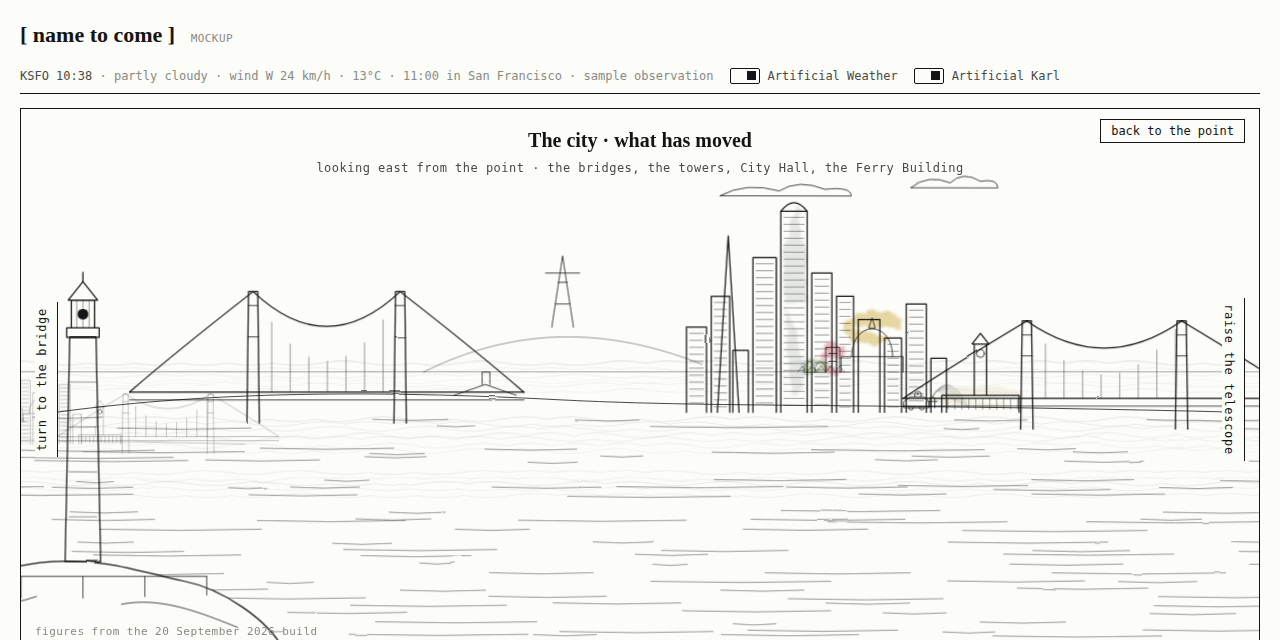
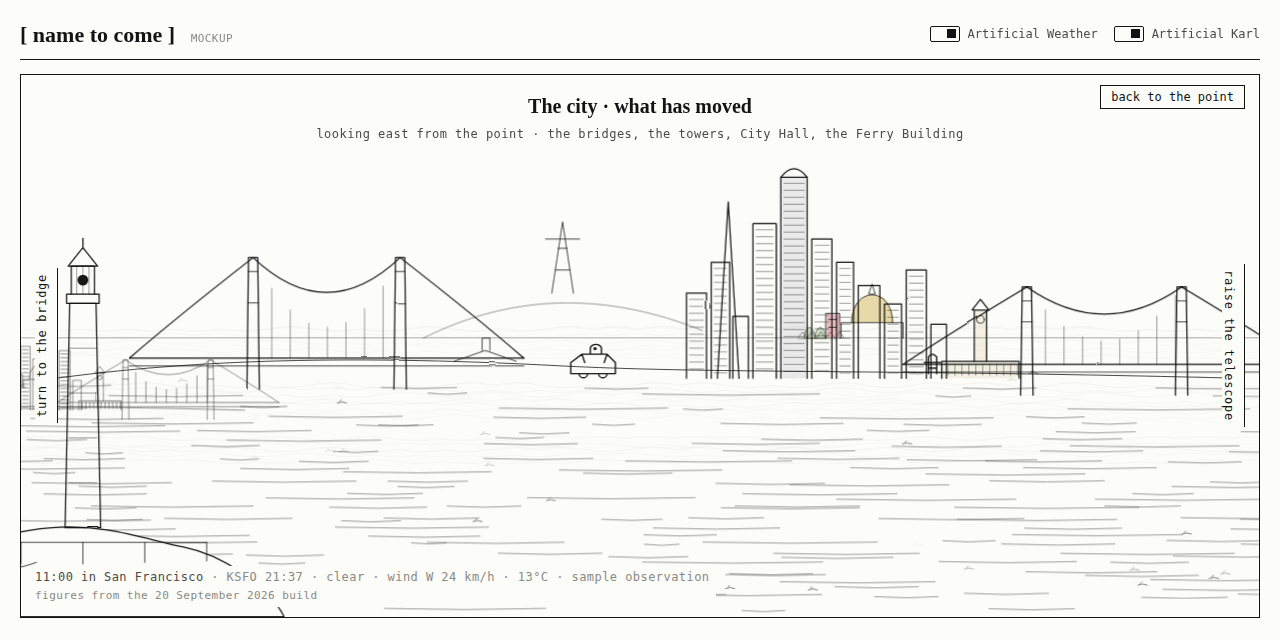
Mockup sixth pass: water that travels on three layers, colour held inside the outlines, the robotaxi as each view's first event

diff --git a/docs/mockup/index.html b/docs/mockup/index.html
@@ -4,15 +4,15 @@
 :root{
   --paper:#FCFCF9; --ink:#141414; --ink-2:#4A4A46; --ink-3:#8A8A84; --hair:#C9C9C2; --wash:#F1F1EC;
   --orange:#C8472B; --gold:#C9A227; --cream:#E9DFC4; --sandstone:#C98F5A; --glass:#5E6B75; --rose:#D4566E; --green:#7FA36B; --sky:#9FB7C9;
-  --wash-a:.42;
+  --wash-a:.38; --blend:multiply;
   --display:"Fraunces",Georgia,"Times New Roman",serif;
   --body:"Libre Franklin","Helvetica Neue",Arial,sans-serif;
   --mono:"IBM Plex Mono",Menlo,Consolas,monospace;
 }
 @media (prefers-color-scheme: dark){
-  :root:not([data-theme="light"]){ --paper:#101010; --ink:#ECECE6; --ink-2:#B9B9B2; --ink-3:#7E7E78; --hair:#3A3A36; --wash:#181816; --cream:#B9AE8E; --wash-a:.5; }
+  :root:not([data-theme="light"]){ --paper:#101010; --ink:#ECECE6; --ink-2:#B9B9B2; --ink-3:#7E7E78; --hair:#3A3A36; --wash:#181816; --cream:#B9AE8E; --wash-a:.55; --blend:screen; }
 }
-:root[data-theme="dark"]{ --paper:#101010; --ink:#ECECE6; --ink-2:#B9B9B2; --ink-3:#7E7E78; --hair:#3A3A36; --wash:#181816; --cream:#B9AE8E; --wash-a:.5; }
+:root[data-theme="dark"]{ --paper:#101010; --ink:#ECECE6; --ink-2:#B9B9B2; --ink-3:#7E7E78; --hair:#3A3A36; --wash:#181816; --cream:#B9AE8E; --wash-a:.55; --blend:screen; }
 
 *{box-sizing:border-box}
 body{margin:0;background:var(--paper);color:var(--ink);font-family:var(--body);font-size:15px;line-height:1.5;padding-inline:16px;padding-block:0 40px}
@@ -39,15 +39,20 @@ header.top{display:flex;align-items:baseline;justify-content:space-between;gap:1
 .scene text{font-family:var(--mono);font-size:12px;fill:var(--ink-2);stroke:none;letter-spacing:.04em}
 .scene .cap{font-family:var(--display);font-size:20px;fill:var(--ink);letter-spacing:0}
 .scene .cap.strong{font-weight:600}
-.wc{stroke:none;opacity:var(--wash-a);filter:url(#wc)}
+.wc{stroke:none;opacity:var(--wash-a);filter:url(#wc);mix-blend-mode:var(--blend,multiply)}
 .pan{transition:transform 1.4s cubic-bezier(.6,0,.2,1)}
 .fg{transition:transform 1.4s cubic-bezier(.6,0,.2,1)}
 .fog{transition:opacity .6s}
 .stage[data-aw="off"] .sky .cloud,.stage[data-aw="off"] .sky .rain,.stage[data-aw="off"] .sky .hair,.stage[data-aw="off"] .dawn,.stage[data-aw="off"] .sunwash{opacity:0 !important}
 .stage[data-ak="off"] .fog{opacity:0 !important}
-.water{animation:sway 7s ease-in-out infinite alternate}
-.water.b{animation-duration:9s;animation-delay:-4s}
-@keyframes sway{from{transform:translateX(-5px)}to{transform:translateX(5px)}}
+.water{animation:swell 6s ease-in-out infinite alternate}
+.water.b{animation-name:swellb;animation-duration:8.5s;animation-delay:-3s}
+.water.c{animation-name:swellc;animation-duration:11s;animation-delay:-6s}
+@keyframes swell{from{transform:translate(-14px,-2px)}to{transform:translate(14px,3px)}}
+@keyframes swellb{from{transform:translate(12px,2px)}to{transform:translate(-12px,-3px)}}
+@keyframes swellc{from{transform:translate(-8px,3px)}to{transform:translate(8px,-2px)}}
+.crest{animation:crest 4s ease-in-out infinite;opacity:0}
+@keyframes crest{0%,100%{opacity:0}40%,60%{opacity:.9}}
 .life{pointer-events:none}
 .gust .fogline{animation-duration:calc(var(--drift,60s)/3) !important}
 .gust .cloud{animation-duration:calc(var(--cdrift,240s)/4) !important}
@@ -72,7 +77,8 @@ header.top{display:flex;align-items:baseline;justify-content:space-between;gap:1
 .hot{cursor:pointer}
 .hot,.hot *{outline:none}
 .hot rect{fill:transparent;stroke:none}
-.hot:hover .cap,.hot:focus-visible .cap{text-decoration:underline;text-underline-offset:5px}
+.hot .cap{text-decoration:underline dotted;text-decoration-color:var(--ink-3);text-underline-offset:6px}
+.hot:hover .cap,.hot:focus-visible .cap{text-decoration:underline solid;text-decoration-color:var(--ink)}
 .detail{opacity:0;transition:opacity .25s}
 .hot:hover .detail,.hot:focus-visible .detail{opacity:1}
 .viewer{transition:transform 1s cubic-bezier(.5,0,.2,1)}
@@ -134,7 +140,7 @@ header.top{display:flex;align-items:baseline;justify-content:space-between;gap:1
 .src b{color:var(--ink);font-weight:500}
 .coin .close{margin-top:12px;font-family:var(--mono);font-size:12px;background:transparent;border:1px solid var(--ink);color:var(--ink);padding:5px 12px;cursor:pointer}
 
-@media (prefers-reduced-motion: reduce){.fogline,.cloud,.rain,.water,.crownblock{animation:none}.pan,.fg,.viewer,.beam,.mask-in{transition:none}}
+@media (prefers-reduced-motion: reduce){.fogline,.cloud,.rain,.water,.crest,.crownblock{animation:none}.pan,.fg,.viewer,.beam,.mask-in{transition:none}}
 @media (max-width:820px){
   .reading{grid-template-columns:1fr}.series{grid-template-columns:1fr}.cad{white-space:normal}
   .stage svg{aspect-ratio:16/9}.scene text{font-size:16px}.scene .cap{font-size:26px}.vig{grid-template-columns:1fr}
@@ -157,10 +163,10 @@ header.top{display:flex;align-items:baseline;justify-content:space-between;gap:1
           <feTurbulence type="fractalNoise" baseFrequency="0.018" numOctaves="2" seed="7" result="n"/>
           <feDisplacementMap in="SourceGraphic" in2="n" scale="2.2" xChannelSelector="R" yChannelSelector="G"/>
         </filter>
-        <filter id="wc" x="-20%" y="-20%" width="140%" height="140%">
-          <feTurbulence type="fractalNoise" baseFrequency="0.05" numOctaves="3" seed="3" result="n"/>
-          <feDisplacementMap in="SourceGraphic" in2="n" scale="14" xChannelSelector="R" yChannelSelector="G" result="d"/>
-          <feGaussianBlur in="d" stdDeviation="1.2"/>
+        <filter id="wc" x="-10%" y="-10%" width="120%" height="120%">
+          <feTurbulence type="fractalNoise" baseFrequency="0.06" numOctaves="2" seed="3" result="n"/>
+          <feDisplacementMap in="SourceGraphic" in2="n" scale="3" xChannelSelector="R" yChannelSelector="G" result="d"/>
+          <feGaussianBlur in="d" stdDeviation="0.7"/>
         </filter>
         <filter id="glow" x="-100%" y="-100%" width="300%" height="300%"><feGaussianBlur stdDeviation="6"/></filter>
         <mask id="fogmask"><rect x="0" y="0" width="4800" height="700" fill="white"/><polygon id="cone" points="0,0" fill="black"/></mask>
@@ -168,20 +174,20 @@ header.top{display:flex;align-items:baseline;justify-content:space-between;gap:1
       </defs>
 
       <!-- ================= the panorama: bridge | point | city ================= -->
-      <g id="pan" class="pan scene" filter="url(#wob)" style="transform:translateX(-1600px)">
+      <g id="pan" class="pan scene" style="transform:translateX(-1600px)">
         <g id="sky" class="sky thin"></g>
         <g id="washes"></g>
-        <g id="far"></g>
+        <g id="far" filter="url(#wob)"></g>
         <g id="lights"></g>
         <g id="water" class="hair"></g>
         <g id="fog" class="fog" mask="url(#fogmask)"></g>
       </g>
       <!-- foreground: the point, the lighthouse, the railing, the viewer at rest -->
-      <g id="fg" class="fg scene" filter="url(#wob)">
+      <g id="fg" class="fg scene">
         <path d="M560 700 C 600 620, 690 590, 760 585 C 830 580, 880 600, 930 610 C 980 620, 1040 660, 1060 700 Z" style="fill:var(--paper)"/>
         <path d="M600 660 C 650 640, 700 645, 740 630 M850 640 C 900 630, 950 650, 1000 670" class="thin"/>
         <g class="beam" id="beam" style="--bx:800px;--by:300px"><path d="M800 300 L 1590 150 M800 300 L 1590 450" class="hair" stroke-dasharray="6 6"/></g>
-        <g id="lh"></g>
+        <g id="lh" filter="url(#wob)"></g>
         <path d="M640 604 L 960 604 M640 604 L 640 630 M720 604 L 720 632 M800 604 L 800 632 M880 604 L 880 630 M960 604 L 960 628" class="thin"/>
         <g class="hot" id="hot-tele" tabindex="0" role="button" aria-label="The telescope: where usage lands">
           <rect x="690" y="560" width="220" height="140"/>
@@ -202,15 +208,15 @@ header.top{display:flex;align-items:baseline;justify-content:space-between;gap:1
       </g>
 
       <!-- ================= the valley, through the viewer ================= -->
-      <g id="valley" class="scene off" filter="url(#wob)">
+      <g id="valley" class="scene off">
         <g class="mask-in off" id="valley-view">
-          <g mask="url(#binoc)"><g id="valley-scene"></g><g id="fog-valley" class="fog"></g></g>
+          <g mask="url(#binoc)"><g id="valley-scene" filter="url(#wob)"></g><g id="fog-valley" class="fog"></g></g>
           <circle cx="700" cy="290" r="210" class="thin"/><circle cx="900" cy="290" r="210" class="thin"/>
           <path d="M800 80 L 800 500 M490 290 L 1110 290" class="hair" stroke-dasharray="3 5"/>
         </g>
-        <g class="viewer down" id="viewer-big"></g>
+        <g class="viewer down" id="viewer-big" filter="url(#wob)"></g>
       </g>
-      <g id="life" class="life scene" filter="url(#wob)"></g>
+      <g id="life" class="life scene"></g>
     </svg>
 
     <div class="caption" id="caption"><h1 id="cap-h">The lens is set. This is what it shows today.</h1><p id="cap-p">hover a label to turn the beam · choose one to look with it</p></div>
@@ -295,14 +301,18 @@ header.top{display:flex;align-items:baseline;justify-content:space-between;gap:1
   }
   function box(g, x, y, w, h, win){ el("path", {d:`M${x} ${y+h} L ${x} ${y} L ${x+w} ${y} L ${x+w} ${y+h}`}, g); if (win) for (let yy=y+8; yy<y+h-4; yy+=9) el("path", {d:`M${x+4} ${yy} L ${x+w-4} ${yy}`, class:"hair"}, g); }
   function blob(g, x, y, w, h, color, seed){ const r = rng(seed); let d = `M${x} ${y+h/2}`; const n=7; for (let i=1;i<=n;i++){ const a = i/n*2*Math.PI; d += ` Q ${x+w/2+Math.cos(a-0.4)*w*0.6*(0.8+r()*0.4)} ${y+h/2+Math.sin(a-0.4)*h*0.6*(0.8+r()*0.4)} ${x+w/2+Math.cos(a)*w/2} ${y+h/2+Math.sin(a)*h/2}`; } return el("path", {d, class:"wc", style:`fill:${color}`}, g); }
+  function tint(g, d, color, seed=1){ return el("path", {d, class:"wc", style:`fill:${color}`}, g); }
+  function tintRect(g, x, y, w, h, color){ return tint(g, `M${x} ${y} h ${w} v ${h} h ${-w} Z`, color); }
   function dome(g, x, baseY, w, cls){ el("path", {d:`M ${x-w/2} ${baseY} L ${x-w/2} ${baseY-20} L ${x+w/2} ${baseY-20} L ${x+w/2} ${baseY}`, class:cls}, g); el("path", {d:`M ${x-w*0.33} ${baseY-20} C ${x-w*0.33} ${baseY-20-w*0.6}, ${x+w*0.33} ${baseY-20-w*0.6}, ${x+w*0.33} ${baseY-20} M ${x-4} ${baseY-20-w*0.46} L ${x+4} ${baseY-20-w*0.46} L ${x} ${baseY-20-w*0.62} Z`, class:cls}, g); }
   function campanile(g, x, baseY, h){ el("path", {d:`M ${x-11} ${baseY} L ${x-11} ${baseY-h} L ${x+11} ${baseY-h} L ${x+11} ${baseY} M ${x-14} ${baseY-h} L ${x+14} ${baseY-h} L ${x} ${baseY-h-22} Z M ${x-6} ${baseY-h+10} L ${x-6} ${baseY-h+30} M ${x+6} ${baseY-h+10} L ${x+6} ${baseY-h+30} M ${x-4} ${baseY-h+50} L ${x+4} ${baseY-h+50}`}, g); }
 
   /* ---------- the three thirds ---------- */
   const far = $("#far"), washes = $("#washes"), waterG = $("#water"), fogG = $("#fog");
   el("path", {d:`M 0 340 L ${W} 340`, class:"hair"}, waterG);
-  const waterA = el("g", {class:"water"}, waterG), waterB = el("g", {class:"water b"}, waterG);
-  water(waterA, 0, W, 400, 690, 3, 44); water(waterB, 0, W, 411, 690, 4, 44);
+  const waterA = el("g", {class:"water"}, waterG), waterB = el("g", {class:"water b"}, waterG), waterC = el("g", {class:"water c"}, waterG);
+  water(waterA, 0, W, 400, 690, 3, 48); water(waterB, 0, W, 416, 690, 4, 48); water(waterC, 0, W, 432, 690, 8, 48);
+  // crests: short marks that surface and go, out of step with each other
+  (function crests(){ const r = rng(19); for (let i=0;i<70;i++){ const x = r()*W, y = 380 + r()*300; const c = el("path", {d:`M${x} ${y} q 6 -3 12 0 M${x+3} ${y-2} l 2 -2`, class:"crest thin"}, waterG); c.style.animationDelay = (-r()*4).toFixed(2) + "s"; c.style.animationDuration = (3 + r()*3).toFixed(2) + "s"; } })();
   fog(fogG, [[330, 5, 6],[400, 6, 7],[470, 5, 5]], 11);
 
   // left third: the bridge, looking back along the headlands (x 0..1600)
@@ -310,9 +320,10 @@ header.top{display:flex;align-items:baseline;justify-content:space-between;gap:1
     el("path", {d:`M ${ox} ${baseY+80} C ${ox+120} ${baseY-40}, ${ox+260} ${baseY-90}, ${ox+420} ${baseY-60} C ${ox+520} ${baseY-40}, ${ox+600} ${baseY+20}, ${ox+700} ${baseY+140}`}, g);
     el("path", {d:`M ${ox+30} ${baseY+60} C ${ox+140} ${baseY+10}, ${ox+300} ${baseY}, ${ox+470} ${baseY+40} C ${ox+560} ${baseY+60}, ${ox+620} ${baseY+110}, ${ox+660} ${baseY+150}`, class:"hair", "stroke-dasharray":"8 6"}, g);
     suspension(g, ox+620, ox+1000, baseY-20, 230, 150);
-    blob(washes, ox+470, baseY-46, 700, 34, "var(--orange)", 5);       // the deck, in its orange
-    blob(washes, ox+606, baseY-250, 28, 250, "var(--orange)", 6);
-    blob(washes, ox+986, baseY-250, 28, 250, "var(--orange)", 8);
+    tintRect(washes, ox+460, baseY-22, 700, 12, "var(--orange)");            // the deck
+    tintRect(washes, ox+612, baseY-250, 16, 290, "var(--orange)");            // the towers
+    tintRect(washes, ox+992, baseY-250, 16, 290, "var(--orange)");
+    tint(washes, `M ${ox+620} ${baseY-250} Q ${ox+810} ${baseY-100} ${ox+1000} ${baseY-250} l 0 5 Q ${ox+810} ${baseY-95} ${ox+620} ${baseY-245} Z`, "var(--orange)");  // the cable
     el("path", {d:`M ${ox+1000} ${baseY-40} C ${ox+1150} ${baseY-90}, ${ox+1350} ${baseY-80}, ${ox+1600} ${baseY-30}`, class:"thin"}, g);
     for (const [x,y,s] of [[ox+1180, baseY+90, 1],[ox+1300, baseY+170, 1.3],[ox+880, baseY+220, .8]]){ el("path", {d:`M${x} ${y} l ${-30*s} 0 l ${6*s} ${10*s} l ${48*s} 0 l ${6*s} ${-10*s} z M${x-14*s} ${y} l 0 ${-10*s} l ${22*s} 0 l 0 ${10*s} M${x-4*s} ${y-10*s} l 0 ${-9*s}`, class:"thin"}, g); }
     for (const [x,y] of [[ox+300,150],[ox+340,170],[ox+1100,120]]) el("path", {d:`M${x-10} ${y} q 10 -8 20 0 M${x+10} ${y} q 10 -8 20 0`, class:"thin gull"}, g);
@@ -326,7 +337,7 @@ header.top{display:flex;align-items:baseline;justify-content:space-between;gap:1
     el("path", {d:`M ${ox+40} 400 L ${ox+44} 150 L ${ox+62} 150 L ${ox+66} 400 M ${ox+40} 200 L ${ox+66} 200 M ${ox+42} 260 L ${ox+64} 260`, class:"thin"}, g);
     el("path", {d:`M ${ox+53} 150 Q ${ox+190} 330 ${ox+330} 342 M ${ox+0} 344 L ${ox+340} 344`, class:"thin"}, g);
     for (let x=ox+90; x<ox+320; x+=28){ const t=(x-ox-53)/277; el("path", {d:`M${x} ${150 + 192*(1-(1-t)**2)} L ${x} 344`, class:"hair"}, g); }
-    blob(washes, ox+36, 150, 34, 250, "var(--orange)", 12);
+    tint(washes, `M ${ox+44} 150 L ${ox+62} 150 L ${ox+66} 400 L ${ox+40} 400 Z`, "var(--orange)");
   })(far, HOME);
 
   // right third: the city, looking east (x 3200..4800)
@@ -353,15 +364,16 @@ header.top{display:flex;align-items:baseline;justify-content:space-between;gap:1
     el("circle", {cx:ox+1240, cy:baseY-84, r:5, class:"thin"}, g);
     suspension(g, ox+1300, ox+1500, baseY-26, 100, 70);
     if (colour){
-      blob(washes, ox+1064, baseY-140, 72, 44, "var(--gold)", 9);            // the dome's gold
-      blob(washes, ox+1036, baseY-98, 28, 40, "var(--rose)", 13);           // the house over the green
-      blob(washes, ox+1006, baseY-76, 46, 18, "var(--green)", 17);          // Patricia's Green
-      blob(washes, ox+1186, baseY-40, 108, 26, "var(--cream)", 21);         // the Ferry Building, off-white
-      blob(washes, ox+986, baseY-262, 30, 230, "var(--glass)", 23).style.opacity = "0.14"; // the tallest tower, one grey wash
+      tint(washes, `M ${ox+1073} ${baseY-80} C ${ox+1073} ${baseY-128}, ${ox+1127} ${baseY-128}, ${ox+1127} ${baseY-80} Z`, "var(--gold)");   // the dome
+      tintRect(washes, ox+1041, baseY-91, 16, 31, "var(--rose)");                                                                 // the house over the green
+      tint(washes, `M ${ox+1004} ${baseY-60} h 52 v 2 h -52 Z M ${ox+1012} ${baseY-60} q 0 -12 7 -14 q 7 2 7 14 Z M ${ox+1026} ${baseY-60} q 0 -12 7 -14 q 7 2 7 14 Z`, "var(--green)"); // the green and its trees
+      tintRect(washes, ox+1191, baseY-29, 98, 21, "var(--cream)");                                                                // the Ferry Building
+      tintRect(washes, ox+1233, baseY-95, 14, 66, "var(--cream)");
+      tintRect(washes, ox+983, baseY-267, 32, 259, "var(--glass)").style.opacity = ".12";                                          // the tallest tower
     }
   }
   skyline(far, 400, true, HOME*2);
-  water(waterA, HOME*2, W, 440, 690, 5, 40); water(waterB, HOME*2, W, 450, 690, 6, 40);
+  water(waterA, HOME*2, W, 440, 690, 5, 44); water(waterB, HOME*2, W, 456, 690, 6, 44); water(waterC, HOME*2, W, 472, 690, 9, 44);
 
   // the lighthouses: one in the foreground for the point, and the same tower drawn at the edges of the panorama
   lighthouse($("#lh"), 800, 585, 330);
@@ -390,10 +402,10 @@ header.top{display:flex;align-items:baseline;justify-content:space-between;gap:1
     LIGHTS.innerHTML = "";
     const ox = HOME*2, baseY = 400, [ca, cb] = nightPair(d);
     // the dome, split by the pair
-    blob(LIGHTS, ox+1066, baseY-136, 34, 40, ca, 41).classList.add("nightlight");
-    blob(LIGHTS, ox+1100, baseY-136, 34, 40, cb, 43).classList.add("nightlight");
+    tint(LIGHTS, `M ${ox+1073} ${baseY-80} C ${ox+1073} ${baseY-128}, ${ox+1100} ${baseY-128}, ${ox+1100} ${baseY-120} L ${ox+1100} ${baseY-80} Z`, ca).classList.add("nightlight");
+    tint(LIGHTS, `M ${ox+1100} ${baseY-80} L ${ox+1100} ${baseY-120} C ${ox+1100} ${baseY-128}, ${ox+1127} ${baseY-128}, ${ox+1127} ${baseY-80} Z`, cb).classList.add("nightlight");
     // the crown: a soft wash and a grid of blocks that breathe out of step
-    blob(LIGHTS, ox+978, baseY-292, 44, 34, "#9FB7C9", 47).classList.add("nightlight");
+    tintRect(LIGHTS, ox+983, baseY-290, 32, 30, "#9FB7C9").classList.add("nightlight");
     const grid = el("g", {class:"nightlight"}, LIGHTS); const r = rng(59);
     for (let i=0;i<4;i++) for (let j=0;j<5;j++){ const b = el("rect", {x:ox+986+i*7, y:baseY-286+j*6, width:5, height:4, class:"crownblock", style:`fill:#9FB7C9;stroke:none`}, grid); b.style.animationDelay = (-r()*9).toFixed(1) + "s"; }
     // the same lights, small, in the far city seen from the point
@@ -440,7 +452,7 @@ header.top{display:flex;align-items:baseline;justify-content:space-between;gap:1
     const b = [[560,466,60,18],[640,470,44,14],[700,464,70,22],[790,472,50,12],[860,466,64,20],[940,470,46,16],[1000,464,58,22],[1080,472,40,12]];
     for (const [x,y,w,h] of b){ box(g, x, y, w, h, false); el("path", {d:`M${x} ${y} L ${x+w} ${y}`}, g); }
     el("path", {d:"M 730 466 L 730 384 L 748 384 L 748 466 M 726 384 L 752 384 L 739 364 Z M 735 400 L 743 400 M 735 420 L 743 420"}, g);   // Hoover Tower
-    blob(g, 722, 396, 34, 70, "var(--sandstone)", 29);                                                                                            // its sandstone
+    tintRect(g, 731, 385, 16, 81, "var(--sandstone)");                                                                                            // its sandstone
     for (let i=0;i<5;i++){ const y = 500 + i*16; el("path", {d:`M ${520 - i*40} ${y} L ${1080 + i*40} ${y}`, class:"hair", "stroke-dasharray":"2 7"}, g); }
     for (const x of [470, 505, 1130, 1165]) el("path", {d:`M${x} 500 q 0 -18 12 -22 q 12 4 12 22 z M${x+12} 500 l 0 12`, class:"thin"}, g);
   })($("#valley-scene"));
@@ -508,6 +520,7 @@ header.top{display:flex;align-items:baseline;justify-content:space-between;gap:1
     if (r.right){ edgeR.querySelector("span").textContent = r.right[1]; edgeR.onclick = ()=>go(r.right[0]); }
     $("#coin").hidden = true;
     if (typeof drawSky === "function") drawSky(OBS, view);
+    if (typeof welcome === "function") welcome(view);
     const valley = $("#valley"), vv = $("#valley-view"), big = $("#viewer-big");
     if (view === "valley"){
       valley.classList.remove("off"); fg.classList.add("off");
@@ -705,27 +718,30 @@ header.top{display:flex;align-items:baseline;justify-content:space-between;gap:1
         if (plume.childElementCount < 40 && Math.random() < .6) el("path", {d:`M${(Math.random()-.5)*8} ${6 + Math.random()*10} l 0 ${6 + Math.random()*14}`}, plume);
         plume.style.opacity = 1 - k*0.6; }, ()=>g.remove()); },
     robotaxi(){ if (stage.dataset.view !== "city") return EVENTS.gull();
-      const g = el("g", {class:"thin"}, life); const y = 386;
+      const g = el("g", {class:"thin"}, life); const y = 386; const S = 1.8;
       // a small car with its sensor dome, running the waterfront toward the hydrant by the Ferry Building
-      el("path", {d:"M-16 0 L 16 0 L 16 -8 L 10 -14 L -8 -14 L -16 -8 Z M-10 0 a 3 3 0 1 0 6 0 M4 0 a 3 3 0 1 0 6 0 M-2 -14 L -2 -18 a 4 3 0 1 1 8 0 L 6 -14", class:"thin"}, g);
-      const dome = el("circle", {cx:2, cy:-18, r:1.2, class:"solid"}, g); let d = 0; const spin = setInterval(()=>{ dome.setAttribute("cx", 2 + Math.cos(d+=.6)*3); }, 80);
-      const hyd = el("g", {transform:`translate(1178,${y})`}, life); el("path", {d:"M-3 0 L -3 -12 Q 0 -16 3 -12 L 3 0 M-6 -8 L 6 -8", class:"thin"}, hyd);
-      const spout = el("g", {class:"hair"}, hyd); spout.style.opacity = 0;
-      for (let i=0;i<9;i++) el("path", {d:`M0 -14 q ${6 + i*2} ${-14 - i*3} ${14 + i*4} ${-2 + i*2}`}, spout);
-      const stop = 1178 - 22;
-      tween(9000, k=>{ const x = 700 + Math.min(k*1.15, 1)*(stop-700); const bump = k > .87 ? Math.sin((k-.87)*60)*2 : 0; g.setAttribute("transform", `translate(${x+bump},${y})`); if (k > .87) spout.style.opacity = Math.min(1, (k-.87)*10); },
-        ()=>{ tween(3000, k=>{ g.setAttribute("transform", `translate(${stop - k*60},${y})`); spout.style.opacity = 1 - k; }, ()=>{ clearInterval(spin); g.remove(); hyd.remove(); }); }); },
+      const car = el("g", {transform:`scale(${S})`}, g);
+      el("path", {d:"M-16 0 L 16 0 L 16 -8 L 10 -14 L -8 -14 L -16 -8 Z M-10 0 a 3 3 0 1 0 6 0 M4 0 a 3 3 0 1 0 6 0 M-2 -14 L -2 -18 a 4 3 0 1 1 8 0 L 6 -14 M-8 -14 L -6 -8 M 10 -14 L 8 -8", class:"thin"}, car);
+      const dome = el("circle", {cx:2, cy:-18, r:1.2, class:"solid"}, car); let d = 0; const spin = setInterval(()=>{ dome.setAttribute("cx", 2 + Math.cos(d+=.6)*3); }, 80);
+      const hyd = el("g", {transform:`translate(1178,${y}) scale(${S})`}, life); el("path", {d:"M-3 0 L -3 -12 Q 0 -16 3 -12 L 3 0 M-6 -8 L 6 -8 M-3 -4 L 3 -4", class:"thin"}, hyd);
+      const spout = el("g", {class:"thin"}, hyd); spout.style.opacity = 0;
+      for (let i=0;i<11;i++) el("path", {d:`M0 -14 q ${7 + i*2} ${-16 - i*3} ${16 + i*4} ${-2 + i*2} M${16 + i*4} ${-2 + i*2} l 1 3`}, spout);
+      const stop = 1178 - 24*S;
+      tween(8000, k=>{ const x = 640 + Math.min(k*1.12, 1)*(stop-640); const bump = k > .89 ? Math.sin((k-.89)*70)*3 : 0; g.setAttribute("transform", `translate(${x+bump},${y})`); if (k > .89) spout.style.opacity = Math.min(1, (k-.89)*12); },
+        ()=>{ tween(2600, k=>{ spout.style.opacity = 1; }, ()=>{ tween(2400, k=>{ g.setAttribute("transform", `translate(${stop - k*90},${y})`); spout.style.opacity = 1 - k; }, ()=>{ clearInterval(spin); g.remove(); hyd.remove(); }); }); }); },
     gust(){ stage.classList.add("gust"); document.querySelectorAll(".gull").forEach(p=>{ p.style.transition = "transform .8s"; p.style.transform = "rotate(-22deg)"; });
       setTimeout(()=>{ stage.classList.remove("gust"); drawSky(OBS, stage.dataset.view); }, 5000); },
     ferry(){ if (stage.dataset.view !== "bridge") return EVENTS.gull();
       const g = el("g", {class:"thin"}, life); el("path", {d:"M0 0 l -30 0 l 6 10 l 48 0 l 6 -10 z M-14 0 l 0 -10 l 22 0 l 0 10 M-4 -10 l 0 -9"}, g);
       tween(40000, k=>{ g.setAttribute("transform", `translate(${-60 + k*1720},${470 + Math.sin(k*20)*1.5})`); }, ()=>g.remove()); },
   };
-  const WEIGHTS = [["gull",5],["plane",2],["gust",2],["ferry",2],["rocket",1],["robotaxi",2]];
+  const WEIGHTS = [["gull",4],["plane",2],["gust",2],["ferry",2],["rocket",2],["robotaxi",4]];
+  const WELCOME = { city:"robotaxi", bridge:"ferry", home:"gull", valley:"gull" };
+  let welcomeTimer = null;
+  function welcome(view){ clearTimeout(welcomeTimer); if (reduced || params.get("event")) return; welcomeTimer = setTimeout(()=>{ if (stage.dataset.view === view) EVENTS[WELCOME[view]](); }, 2600); }
   function pick(){ const total = WEIGHTS.reduce((a,[,w])=>a+w,0); let r = Math.random()*total; for (const [k,w] of WEIGHTS){ if ((r -= w) < 0) return k; } return "gull"; }
   function schedule(){ if (reduced) return; setTimeout(()=>{ EVENTS[pick()](); schedule(); }, 15000 + Math.random()*30000); }
   if (params.get("event")){ setTimeout(()=>EVENTS[params.get("event")] && EVENTS[params.get("event")](), 2000); }
-  else if (!reduced) setTimeout(()=>EVENTS.gull(), 4000);
   schedule();
 
   /* ---------- the release strip ---------- */
